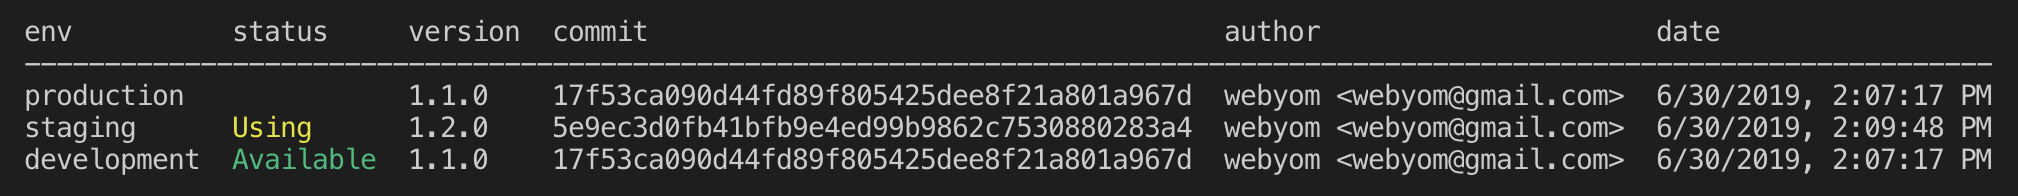
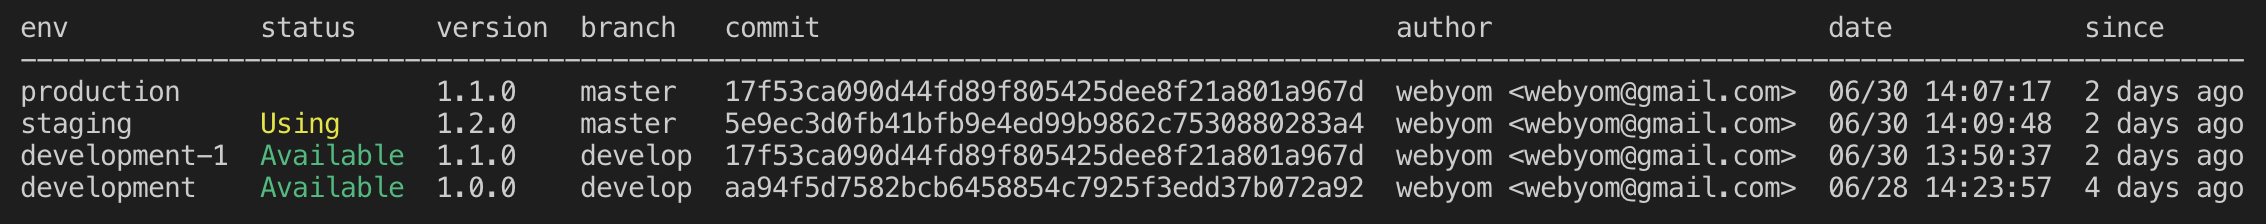
docs: update readme

diff --git a/README.md b/README.md
@@ -26,6 +26,7 @@ A command to show each env status, whether it is using for testing or available 
   ```json
   {
     "version": "1.1.0",
+    "branch": "master",
     "commit": "17f53ca090d44fd89f805425dee8f21a801a967d",
     "author": "webyom <webyom@gmail.com>",
     "date": 1561874837800
@@ -33,6 +34,7 @@ A command to show each env status, whether it is using for testing or available 
   ```
 
   - `version` is the version defined in package.json
+  - `branch` is the branch you checkout when you publish your project.
   - `commit` is the the HEAD commit hash when you publish your project.
   - `author` is the HEAD commit author when you publish your project.
   - `date` is the timestamp when you publish your project.
